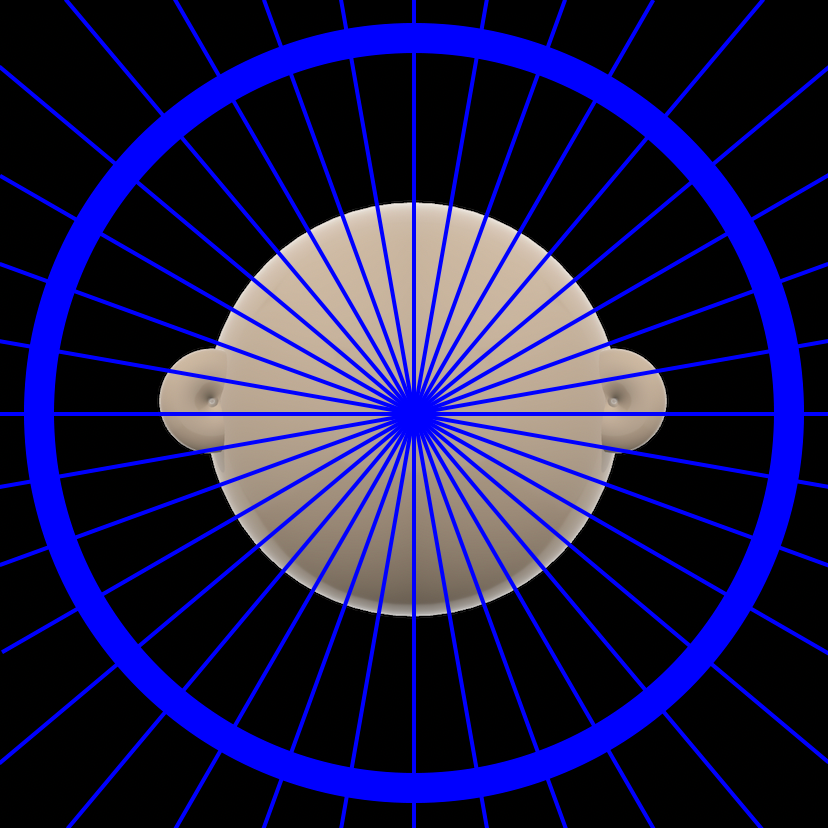
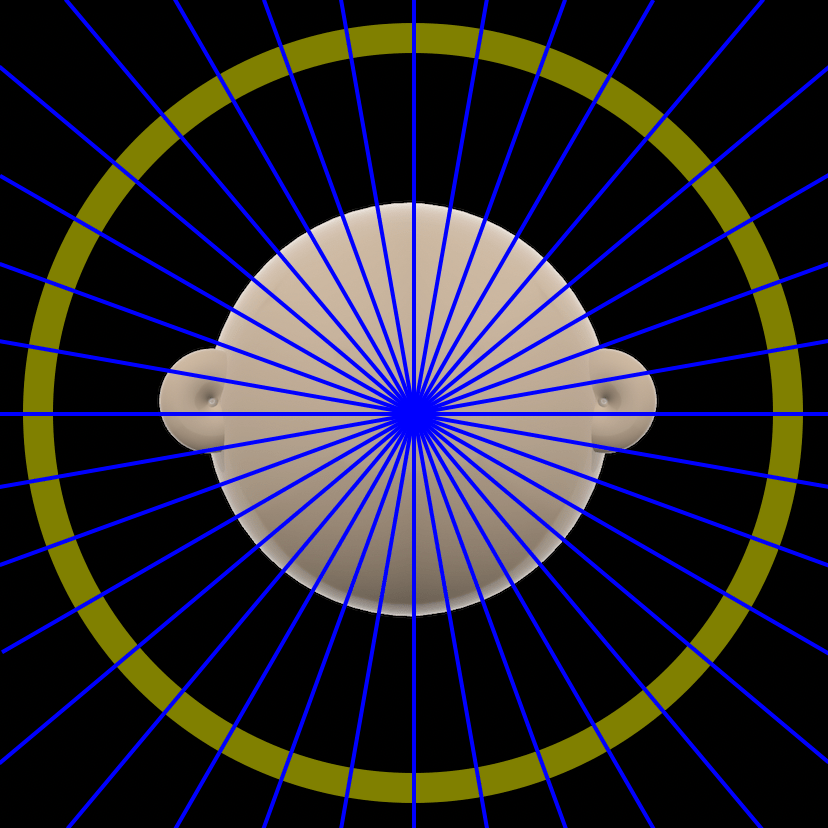
update colors

diff --git a/templates/interface/assets/js/interface.js b/templates/interface/assets/js/interface.js
@@ -1615,6 +1615,29 @@ var frame = new THREE.Mesh(frameGeometry, frameMaterial);
 var edgesGeometry = new THREE.EdgesGeometry(frameGeometry);
 var wireframe = new THREE.LineSegments(edgesGeometry, new THREE.LineBasicMaterial({color: 0x0000ff})); 
 
+var frontGeometry = new THREE.TorusGeometry(15,0.1,30,100);
+var frontMaterial = new THREE.MeshLambertMaterial({
+	color: 0x808000
+});
+var front = new THREE.Mesh(frontGeometry, frontMaterial);
+front.position.set(0,0,0);
+
+
+var sideGeometry = new THREE.TorusGeometry(15,0.1,30,100);
+var sideMaterial = new THREE.MeshLambertMaterial({
+	color: 0x964b00
+});
+var side = new THREE.Mesh(sideGeometry, sideMaterial);
+side.rotation.y = Math.PI / 2;
+
+
+var headGeometry = new THREE.TorusGeometry(15,0.1,30,100);
+var headMaterial = new THREE.MeshLambertMaterial({
+	color: 0x6a0dad
+});
+var head = new THREE.Mesh(headGeometry, headMaterial);
+head.rotation.x = Math.PI / 2;
+
 var ballGeometry;
 var ballMaterial;
 
@@ -1664,6 +1687,9 @@ function removeAllBalls(){
 	}
 }
 scene.add(wireframe);
+scene.add(head);
+scene.add(side);
+scene.add(front);
 scene.add(sphere);
 scene.add(ear1);
 scene.add(ear2);
